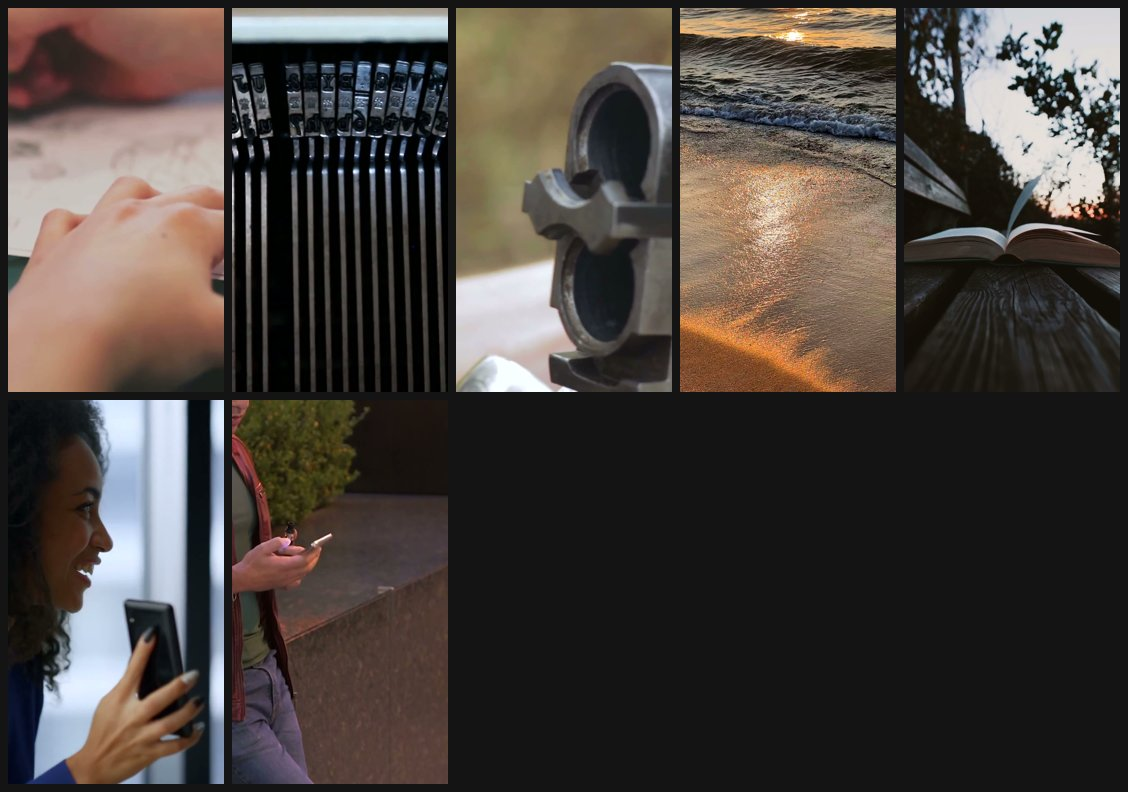
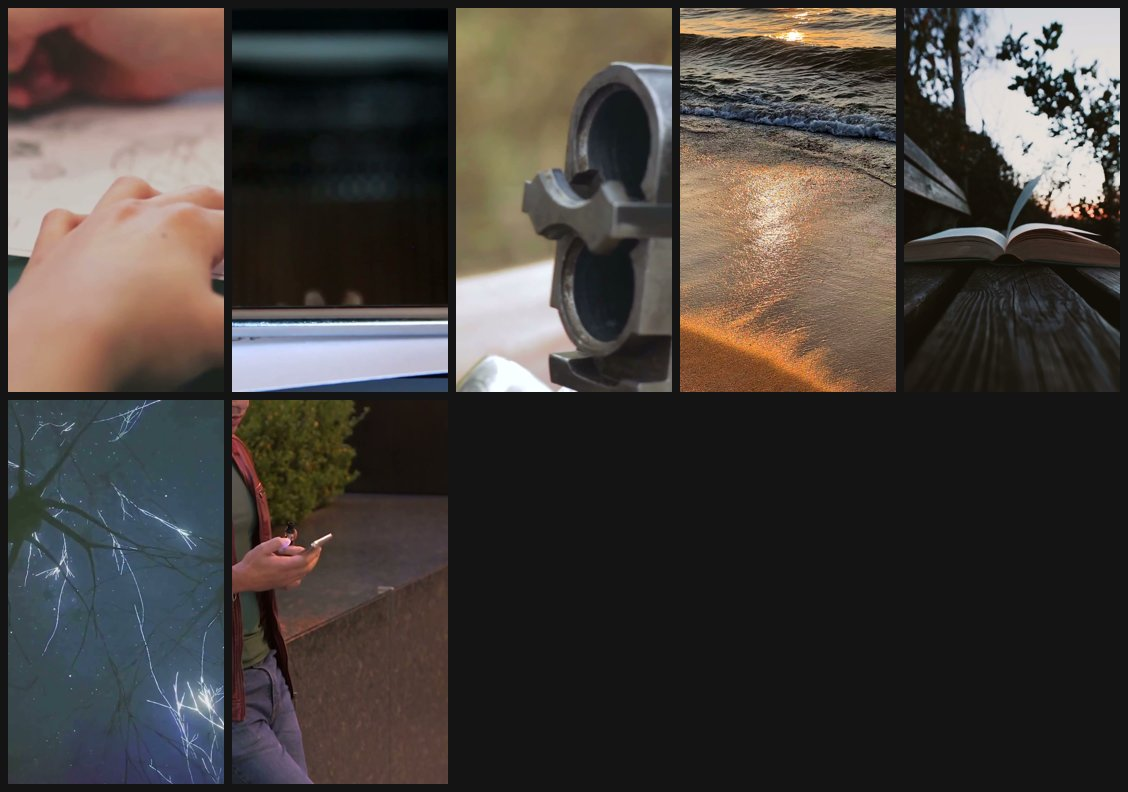
Update Moderator Pages dashboard (2026-11-20 01:56:17 UTC)

Changed region(s): [[0.0, 0.0, 0.4034, 1.0]]

diff --git a/data/runs/20261120_014713_youtube_short/qa_report.md b/data/runs/20261120_014713_youtube_short/qa_report.md
@@ -1,0 +1,15 @@
+# QA report: CHANGES NEEDED
+
+- ✅ **length** [en]: 33.3s (must be under 60s; target 32-50s)
+- ✅ **target length** [en]: 33.3s
+- ✅ **aspect ratio** [en]: 1080x1920
+- ✅ **video codec** [en]: h264
+- ✅ **audio track** [en]: present
+- ✅ **loudness** [en]: -14.5 LUFS, peak -1.5 dBFS (target -14 LUFS, peak <= -1)
+- ✅ **hook timing** [en]: scene_01 spoken in 2.7s (target <= 4s)
+- ✅ **caption sync** [en]: 84 words, 32 caption events
+- ✅ **visual licenses**: 7 assets: pixabay
+- ✅ **visual diversity**: all scenes use distinct footage
+- ✅ **audio licenses**: music: original work, no third-party rights; sfx: original work, no third-party rights; voice: synthetic voice; no third-party performance rights
+- ❌ **visual_fit review** [en]: In scene_02, the viewer must count the letter F from the sentence ('Finished files are the result of years of scientific study combined with the experience of years.'), but the text is neither displayed on-screen nor included in the visual query ('vintage typewriter typing'). Add the full sentence to on-screen text or adjust visual query so the text appears clearly for viewers to read. → sent to visuals
+- ❌ **people rule**: scene_06: A woman is shown with her hand, arm, and shoulder visible in the first two frames.. Replace with footage without women (a face-only close-up is the only exception). → sent to visuals
